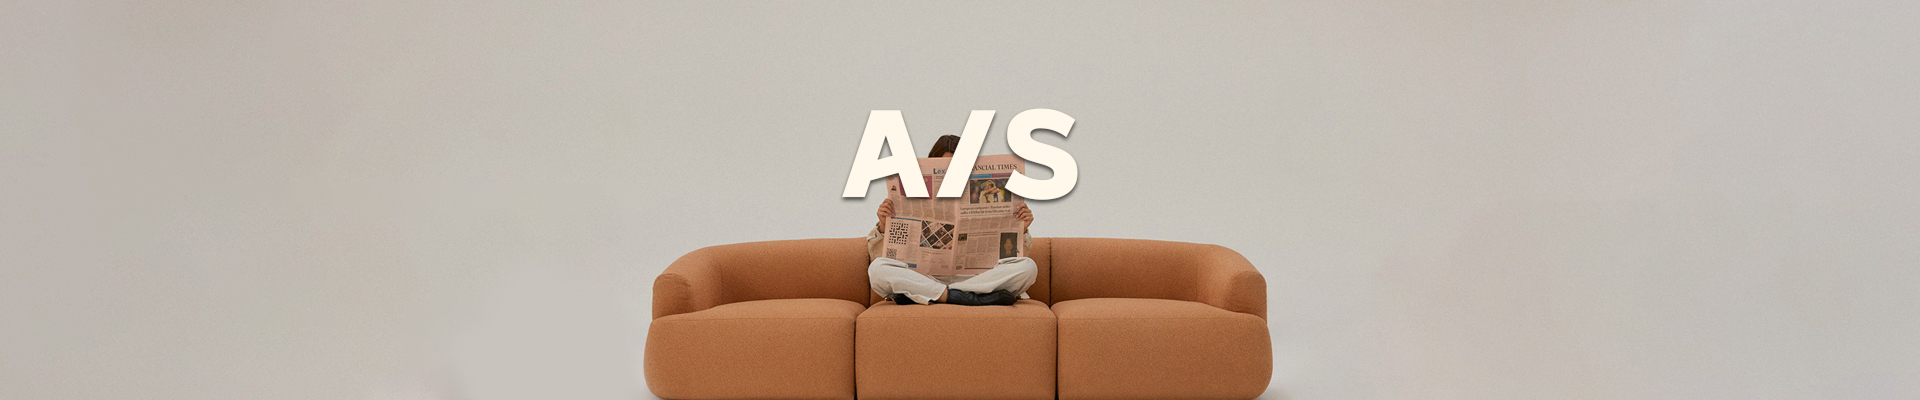
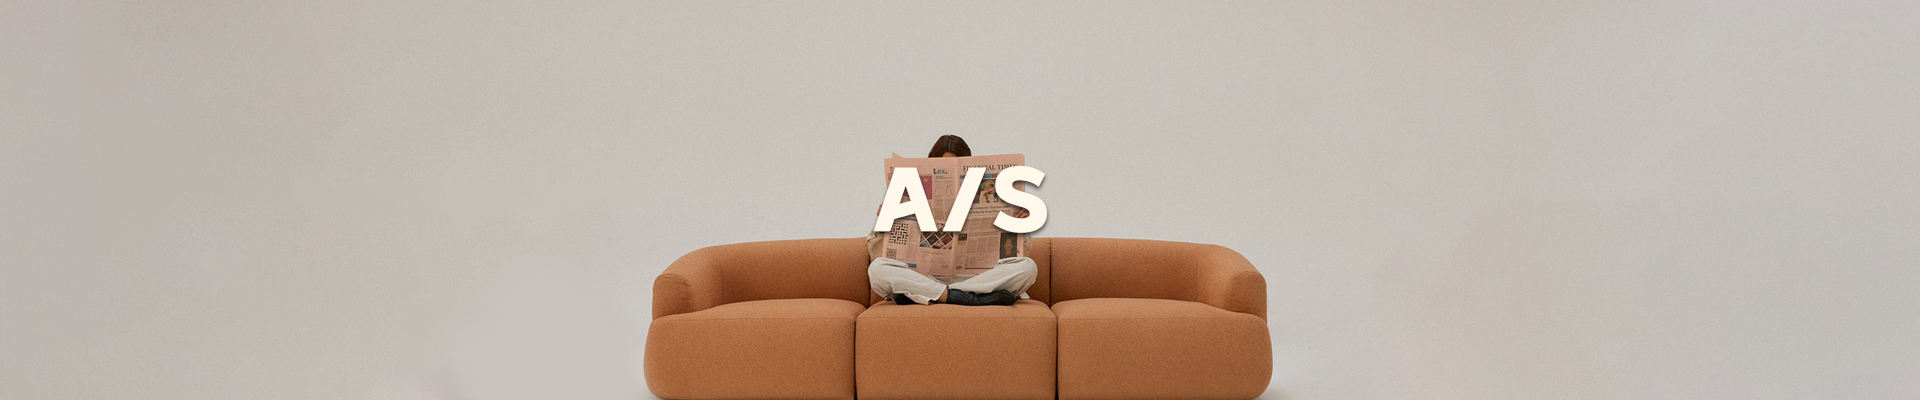
사진 교체/ 메인페이지 슬라이드 기능 추가

Changed region(s): [[0.4375, 0.27, 0.5625, 0.6]]

diff --git a/index.html b/index.html
@@ -93,10 +93,10 @@
     <div class="new-product">
         <h1>New arrival</h1>
         <div class="banner">
-            <div class="content1">
+            <div class="content1 slide-up">
                 <p>2UC HALF <br> TABLE</p>
             </div>
-            <div class="content2">
+            <div class="content2 slide-up">
                 <p>2UC TRIANGLE CONSOLE</p>
             </div>
         </div>
@@ -314,5 +314,6 @@
     <div id="site-footer"></div>
     <script src="./js/components/layout.js"></script>
     <script src="https://cdn.jsdelivr.net/npm/swiper@12/swiper-bundle.min.js"></script>
+    <script src="../../js/pages/brand-story.js"></script>
 </body>
 </html>

diff --git a/css/pages/login.css b/css/pages/login.css
@@ -12,6 +12,7 @@
 .nomembership .login-container{
     margin: 0 auto;
     color: #9C9C9C;
+    margin-bottom: 4.5rem;
 }
 .nomembership .login-buttons{
     margin-bottom: 10rem;
@@ -110,7 +111,7 @@
     height: 46px;
     background-color: var(--main-color);
     color: #fff;
-    font-size: var(--heading-2);
+    font-size: var(--heading-4);
     font-weight: var(--bold-weight);
 }
 .login-links{

diff --git a/css/pages/faq.css b/css/pages/faq.css
@@ -65,6 +65,10 @@ width: 100%;
     color: #fff;
 }
 
+
+.section1 .cover.active{
+    background-color: #9c9c9c16;
+}
 /* 1. 일단 faq-content가 붙은 모든 건 숨깁니다. */
 .faq-content {
     display: none !important;
@@ -76,7 +80,7 @@ width: 100%;
 }
 
 .faq-content p:nth-of-type(2){
-    width: 400px;
+    width: 500px;
 }
 .faq-content p:nth-of-type(3){
     width: 100px;

diff --git a/pages/cs/faq.html b/pages/cs/faq.html
@@ -17,7 +17,7 @@
         <div class="faq-wrap common-frame">
             <h1 class="magin2">FAQ</h1>
             <div class="faq-box">
-                <section class="flex">
+                <section class="flex section1">
                     <div class="cover click-1">
                         <p class="bold">전체보기</p>
                         <p>></p>

diff --git a/css/pages/index.css b/css/pages/index.css
@@ -368,3 +368,17 @@ element.style {
 }
 
 
+.slide-up{
+    /* opacity: 0; */
+    transform: translateX(1300px);
+    transition: all .4s ease-out .1s;
+}
+.slide-up:nth-of-type(2){
+    /* opacity: 0; */
+    transform: translateX(-1300px);
+    transition: all .4s ease-out .1s;
+}
+.slide-up.active{
+    /* opacity: 1; */
+    transform: translateX(0px);
+}

diff --git a/js/pages/brand-story.js b/js/pages/brand-story.js
@@ -14,5 +14,5 @@ const observer = new IntersectionObserver((entries) => {
     });
 }, observerOptions);
 
-// 클래스가 slide-up-text인 모든 요소를 찾아 감시 시작
+// 클래스가 slide-up인 모든 요소를 찾아 감시 시작
 document.querySelectorAll('.slide-up').forEach(el => observer.observe(el));

diff --git a/css/pages/brand-story.css b/css/pages/brand-story.css
@@ -152,12 +152,12 @@
 
 .slide-up{
     /* opacity: 0; */
-    transform: translateY(300px);
+    transform: translateX(300px);
     transition: all .5s ease-out .1s;
 }
 .slide-up.active{
     /* opacity: 1; */
-    transform: translateY(0px);
+    transform: translateX(0px);
 }
 
 

diff --git a/css/pages/event.css b/css/pages/event.css
@@ -18,6 +18,7 @@
 .event-items figure{
     margin-bottom: 2rem;
     height: 600px;
+    box-shadow: 10px 10px 20px 0px rgba(0, 0, 0, 0.1);
 }
 .event-items h4{
     margin-bottom: .5rem;
